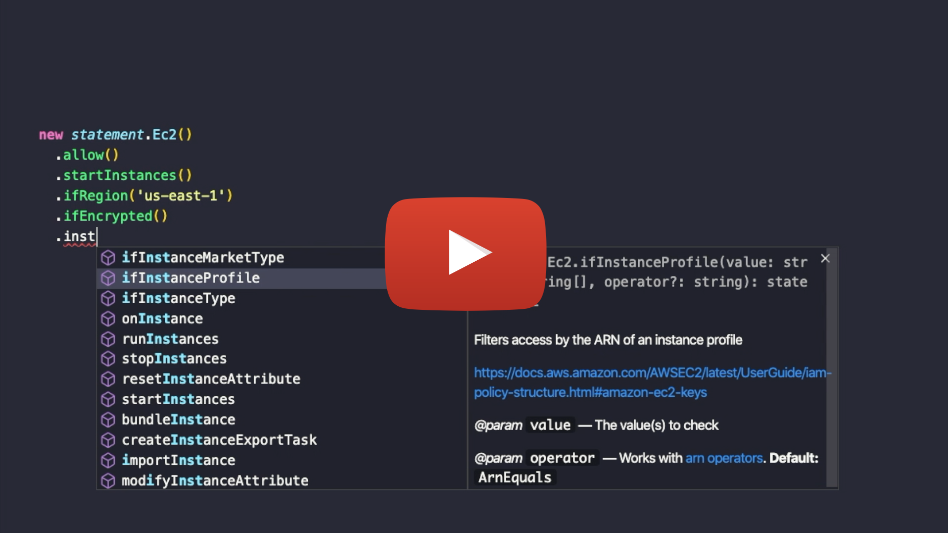
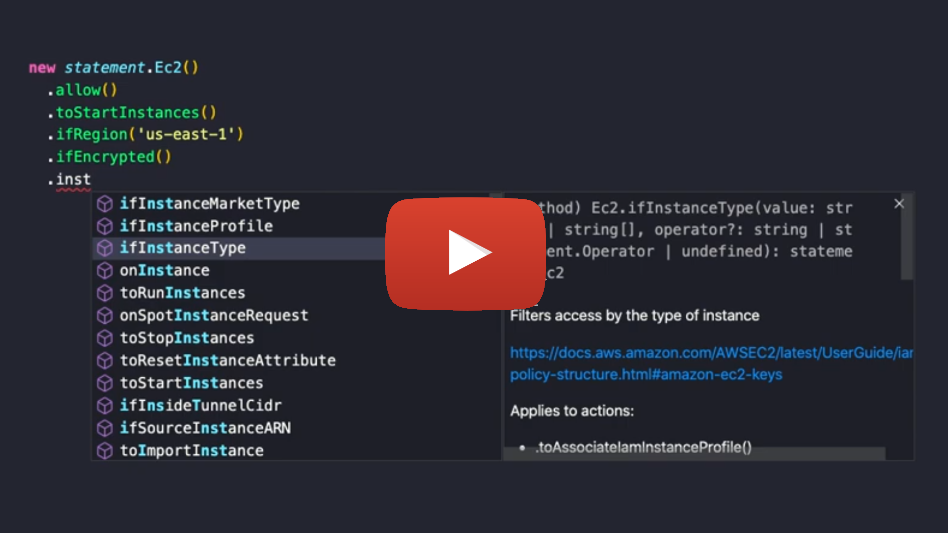
new video

Changed region(s): [[0.0306, 0.0901, 0.4283, 0.9306], [0.4895, 0.3602, 0.9789, 0.9306], [0.52, 0.5704, 0.7954, 0.6004]]

diff --git a/docs/source/index.rst b/docs/source/index.rst
@@ -38,7 +38,7 @@ Support for:
 .. raw:: html
 
     <div style="text-align: center; margin-bottom: 2em;">
-    <iframe width="100%" height="350" src="https://www.youtube-nocookie.com/embed/ivG6VnbwMB0?rel=0" frameborder="0" allow="autoplay; encrypted-media" allowfullscreen></iframe>
+    <iframe width="100%" height="350" src="https://www.youtube-nocookie.com/embed/4dHY8qPHbKA?rel=0" frameborder="0" allow="autoplay; encrypted-media" allowfullscreen></iframe>
     </div>
 
 Similar projects

diff --git a/README.md b/README.md
@@ -28,7 +28,7 @@ Support for:
 
 Find the documentation at [Read the Docs][documentation].
 
-[![Auto completion demo](https://raw.githubusercontent.com/udondan/iam-floyd/main/docs/movie-preview.png)](https://www.youtube.com/watch?v=ivG6VnbwMB0 "Auto completion demo")
+[![Auto completion demo](https://raw.githubusercontent.com/udondan/iam-floyd/main/docs/movie-preview.png)](https://www.youtube.com/watch?v=4dHY8qPHbKA "Auto completion demo")
 
 ## Packages
 
